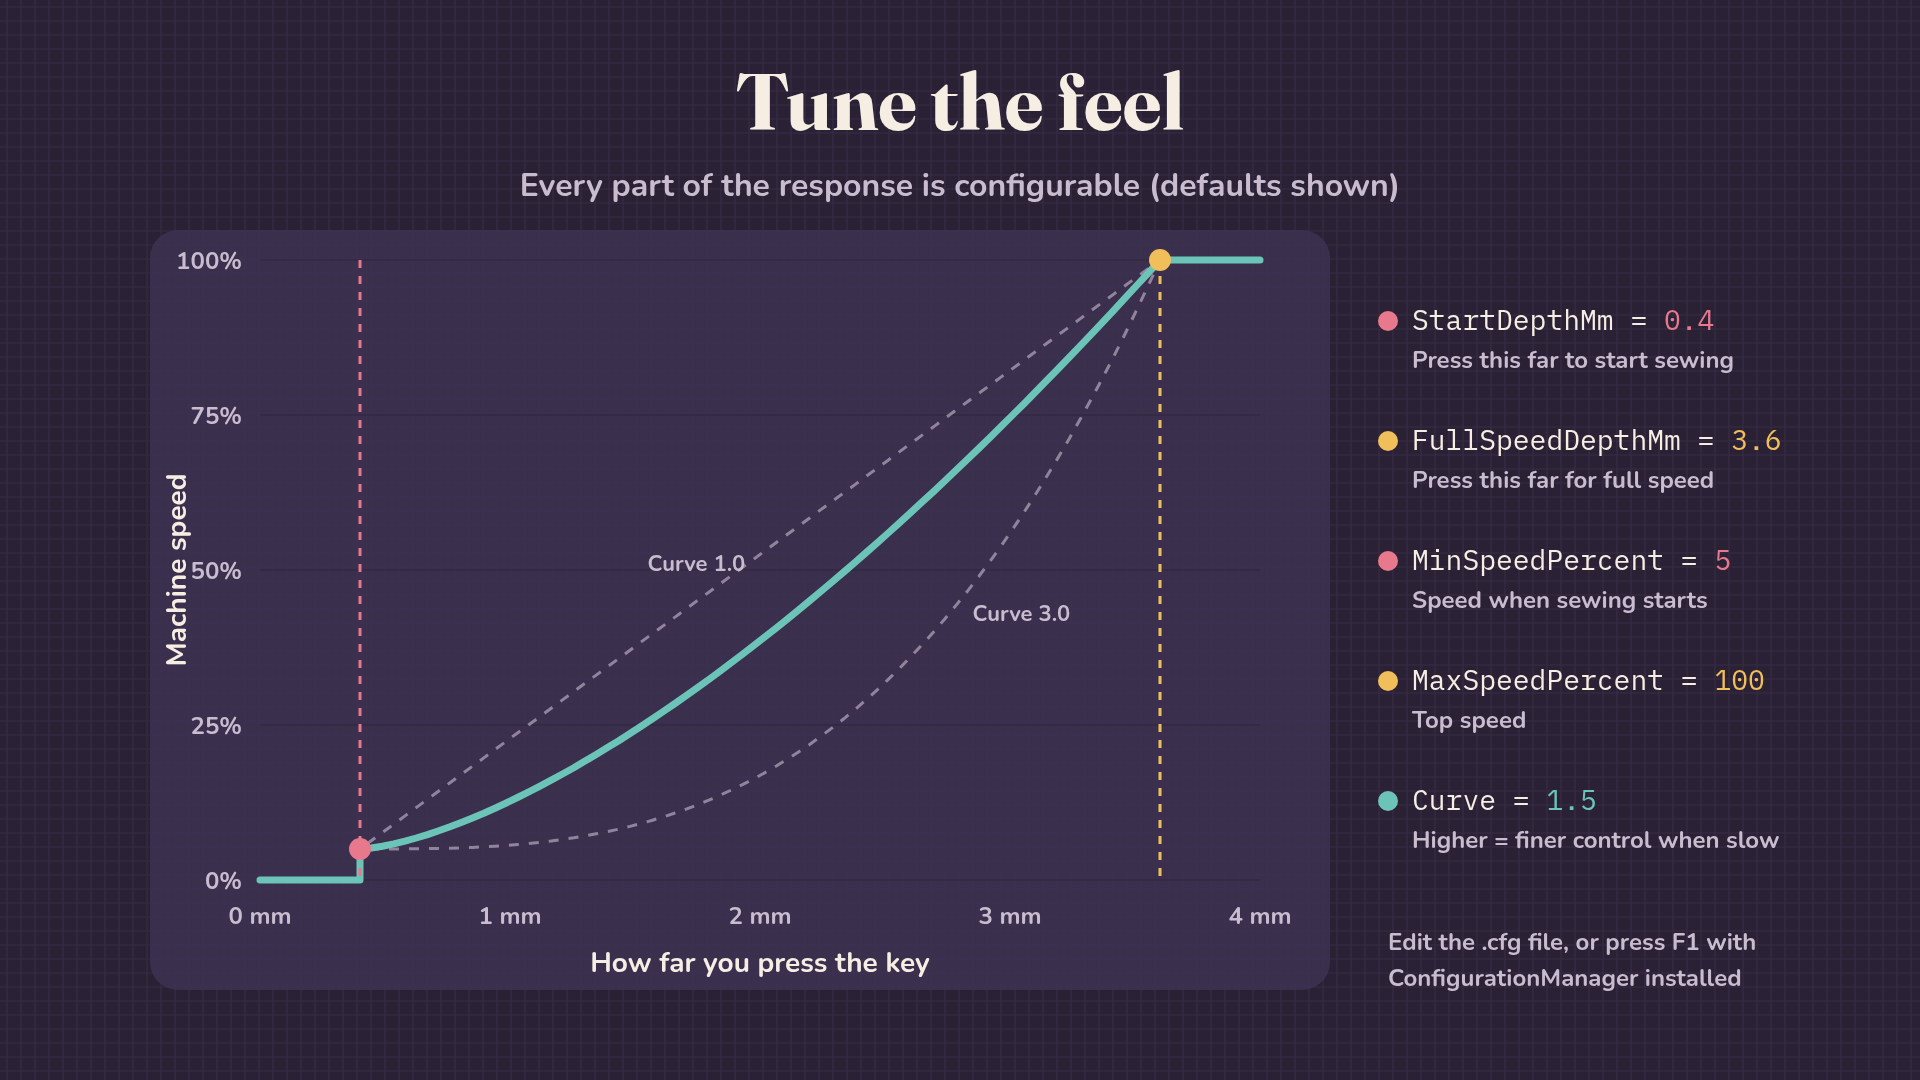
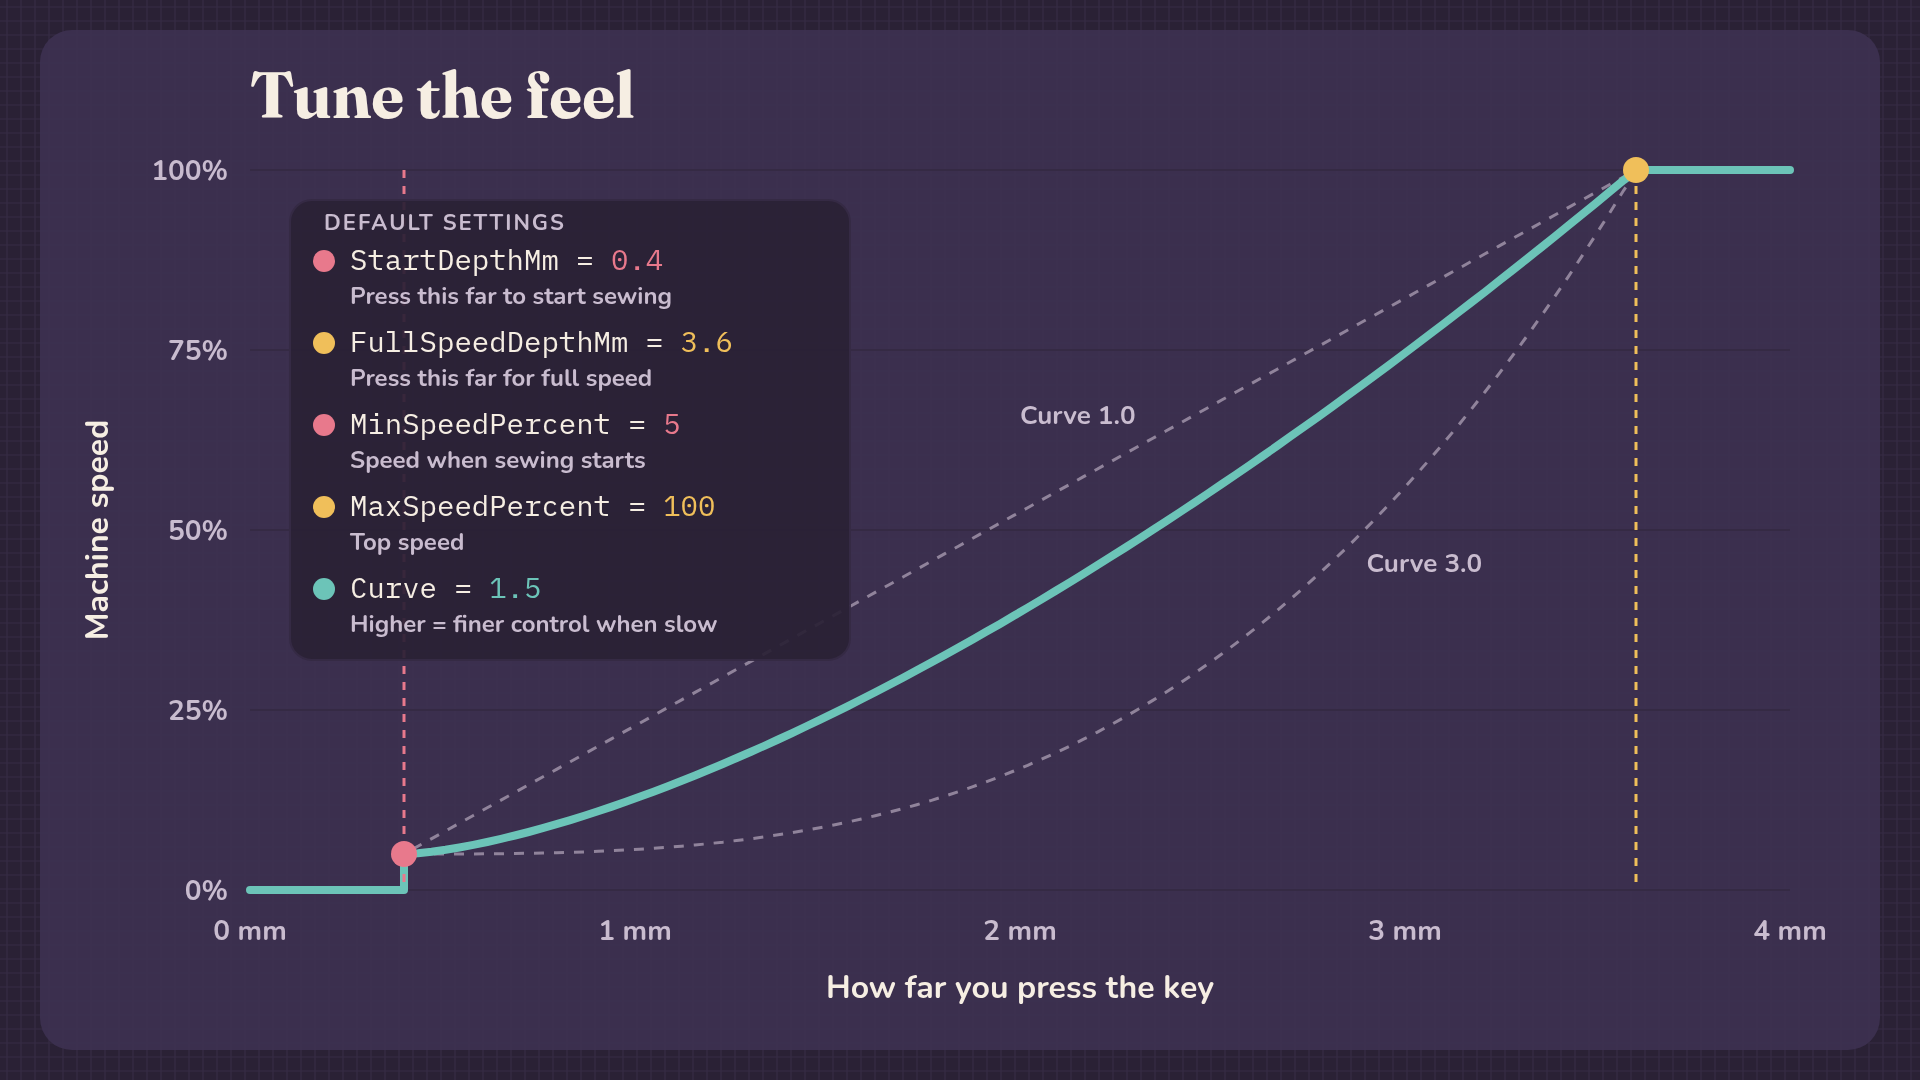
Simplify the foot-pedal image and make the curve image all graph

diff --git a/docs/media/make_media.py b/docs/media/make_media.py
@@ -104,26 +104,23 @@ def pedal():
         gauge_w = 380
         dash = (6 + pct * 0.25, max(26 - pct * 0.22, 4))
         panels.append(f"""
-  <rect x="{cx - 270}" y="300" width="540" height="620" rx="28" fill="{CARD}" opacity="0.92"/>
-  <text x="{cx}" y="380" text-anchor="middle" class="title" style="font-size:46px">{name}</text>
-  {keycap(cx - 160, 440, 320, depth_px)}
-  <text x="{cx}" y="650" text-anchor="middle" class="mono" style="font-size:30px">{mm:.1f} mm</text>
-  <rect x="{cx - gauge_w/2}" y="700" width="{gauge_w}" height="26" rx="13" fill="{BG}"/>
-  <rect x="{cx - gauge_w/2}" y="700" width="{gauge_w * pct / 100:.1f}" height="26" rx="13" fill="{TEAL}"/>
-  <text x="{cx}" y="780" text-anchor="middle" class="body" style="font-size:34px">{pct:.0f}% speed</text>
-  {stitches(cx - 200, 850, cx + 200, 850, dash=dash, width=6)}""")
+  <rect x="{cx - 270}" y="290" width="540" height="660" rx="28" fill="{CARD}" opacity="0.92"/>
+  <text x="{cx}" y="380" text-anchor="middle" class="title" style="font-size:50px">{name}</text>
+  {keycap(cx - 160, 450, 320, depth_px)}
+  <rect x="{cx - gauge_w/2}" y="680" width="{gauge_w}" height="28" rx="14" fill="{BG}"/>
+  <rect x="{cx - gauge_w/2}" y="680" width="{gauge_w * pct / 100:.1f}" height="28" rx="14" fill="{TEAL}"/>
+  <text x="{cx}" y="770" text-anchor="middle" class="body" style="font-size:38px">{pct:.0f}% speed</text>
+  {stitches(cx - 200, 860, cx + 200, 860, dash=dash, width=6)}""")
     body = f"""
-  <text x="960" y="150" text-anchor="middle" class="title" style="font-size:80px">Your keyboard is the foot pedal</text>
-  <text x="960" y="220" text-anchor="middle" class="sub" style="font-size:34px">The sewing machine's speed follows how far you press Space</text>
+  <text x="960" y="180" text-anchor="middle" class="title" style="font-size:86px">Your keyboard is the foot pedal</text>
   {''.join(panels)}
-  <text x="960" y="1010" text-anchor="middle" class="sub" style="font-size:26px">Let go and the machine stops. Right-click sewing and the speed slider still work as normal.</text>
 """
     return svg(w, h, body)
 
 
 def curve():
     w, h = 1920, 1080
-    gx, gy, gw, gh = 260, 260, 1000, 620  # plot area
+    gx, gy, gw, gh = 250, 170, 1540, 720  # plot area
 
     def px(mm):
         return gx + mm / TRAVEL_MM * gw
@@ -133,7 +130,7 @@ def curve():
 
     def path(c):
         pts = [f"M{px(0):.1f} {py(0):.1f}", f"L{px(START_MM):.1f} {py(0):.1f}"]
-        steps = 80
+        steps = 100
         for k in range(steps + 1):
             mm = START_MM + (TRAVEL_MM - START_MM) * k / steps
             pts.append(f"L{px(mm):.1f} {py(speed(mm, c)):.1f}")
@@ -141,41 +138,43 @@ def curve():
 
     grid = "".join(
         f'<line x1="{gx}" y1="{py(p)}" x2="{gx + gw}" y2="{py(p)}" stroke="{BG2}" stroke-width="2"/>'
-        f'<text x="{gx - 18}" y="{py(p) + 9}" text-anchor="end" class="sub" style="font-size:24px">{p}%</text>'
+        f'<text x="{gx - 22}" y="{py(p) + 10}" text-anchor="end" class="sub" style="font-size:28px">{p}%</text>'
         for p in (0, 25, 50, 75, 100))
     xticks = "".join(
-        f'<text x="{px(m)}" y="{gy + gh + 44}" text-anchor="middle" class="sub" style="font-size:24px">{m} mm</text>'
+        f'<text x="{px(m)}" y="{gy + gh + 50}" text-anchor="middle" class="sub" style="font-size:28px">{m} mm</text>'
         for m in (0, 1, 2, 3, 4))
 
-    def setting(y, key, value, desc, color):
+    lx, ly = gx + 40, gy + 30  # legend, in the empty upper-left of the plot
+
+    def setting(row, key, value, desc, color):
+        y = ly + 70 + row * 82
         return f"""
-  <circle cx="1388" cy="{y - 9}" r="10" fill="{color}"/>
-  <text x="1412" y="{y}" class="mono" style="font-size:28px">{key} = <tspan style="fill:{color}">{value}</tspan></text>
-  <text x="1412" y="{y + 38}" class="sub" style="font-size:24px">{desc}</text>"""
+  <circle cx="{lx + 34}" cy="{y - 9}" r="11" fill="{color}"/>
+  <text x="{lx + 60}" y="{y}" class="mono" style="font-size:29px">{key} = <tspan style="fill:{color}">{value}</tspan></text>
+  <text x="{lx + 60}" y="{y + 34}" class="sub" style="font-size:24px">{desc}</text>"""
 
     body = f"""
-  <text x="960" y="130" text-anchor="middle" class="title" style="font-size:80px">Tune the feel</text>
-  <text x="960" y="196" text-anchor="middle" class="sub" style="font-size:32px">Every part of the response is configurable (defaults shown)</text>
-  <rect x="150" y="230" width="1180" height="760" rx="28" fill="{CARD}" opacity="0.92"/>
+  <rect x="40" y="30" width="1840" height="1020" rx="32" fill="{CARD}" opacity="0.92"/>
+  <text x="{gx}" y="118" class="title" style="font-size:64px">Tune the feel</text>
   {grid}{xticks}
-  <text x="{gx + gw/2}" y="{gy + gh + 92}" text-anchor="middle" class="body" style="font-size:28px">How far you press the key</text>
-  <text transform="translate(186 {gy + gh/2}) rotate(-90)" text-anchor="middle" class="body" style="font-size:28px">Machine speed</text>
+  <text x="{gx + gw/2}" y="{gy + gh + 108}" text-anchor="middle" class="body" style="font-size:32px">How far you press the key</text>
+  <text transform="translate(108 {gy + gh/2}) rotate(-90)" text-anchor="middle" class="body" style="font-size:32px">Machine speed</text>
   <path d="{path(1.0)}" fill="none" stroke="{MUTED}" stroke-width="3" stroke-dasharray="10 10" opacity="0.6"/>
   <path d="{path(3.0)}" fill="none" stroke="{MUTED}" stroke-width="3" stroke-dasharray="10 10" opacity="0.6"/>
-  <text x="{px(1.55)}" y="{py(speed(1.75, 1.0)) - 30}" class="sub" style="font-size:22px">Curve 1.0</text>
-  <text x="{px(2.85)}" y="{py(speed(2.85, 3.0)) + 36}" class="sub" style="font-size:22px">Curve 3.0</text>
-  <path d="{path(CURVE)}" fill="none" stroke="{TEAL}" stroke-width="7" stroke-linejoin="round" stroke-linecap="round"/>
+  <text x="{px(2.3)}" y="{py(speed(2.3, 1.0)) - 24}" text-anchor="end" class="sub" style="font-size:26px">Curve 1.0</text>
+  <text x="{px(2.9)}" y="{py(speed(2.9, 3.0)) + 44}" class="sub" style="font-size:26px">Curve 3.0</text>
+  <path d="{path(CURVE)}" fill="none" stroke="{TEAL}" stroke-width="8" stroke-linejoin="round" stroke-linecap="round"/>
   <line x1="{px(START_MM)}" y1="{gy}" x2="{px(START_MM)}" y2="{gy + gh}" stroke="{ROSE}" stroke-width="3" stroke-dasharray="8 8"/>
   <line x1="{px(FULL_MM)}" y1="{gy}" x2="{px(FULL_MM)}" y2="{gy + gh}" stroke="{MUSTARD}" stroke-width="3" stroke-dasharray="8 8"/>
-  <circle cx="{px(START_MM)}" cy="{py(MIN_PCT)}" r="11" fill="{ROSE}"/>
-  <circle cx="{px(FULL_MM)}" cy="{py(MAX_PCT)}" r="11" fill="{MUSTARD}"/>
-  {setting(330, "StartDepthMm", START_MM, "Press this far to start sewing", ROSE)}
-  {setting(450, "FullSpeedDepthMm", FULL_MM, "Press this far for full speed", MUSTARD)}
-  {setting(570, "MinSpeedPercent", MIN_PCT, "Speed when sewing starts", ROSE)}
-  {setting(690, "MaxSpeedPercent", MAX_PCT, "Top speed", MUSTARD)}
-  {setting(810, "Curve", CURVE, "Higher = finer control when slow", TEAL)}
-  <text x="1388" y="950" class="sub" style="font-size:24px">Edit the .cfg file, or press F1 with</text>
-  <text x="1388" y="986" class="sub" style="font-size:24px">ConfigurationManager installed</text>
+  <circle cx="{px(START_MM)}" cy="{py(MIN_PCT)}" r="13" fill="{ROSE}"/>
+  <circle cx="{px(FULL_MM)}" cy="{py(MAX_PCT)}" r="13" fill="{MUSTARD}"/>
+  <rect x="{lx}" y="{ly}" width="560" height="460" rx="22" fill="{BG}" opacity="0.92" stroke="{BG2}" stroke-width="2"/>
+  <text x="{lx + 34}" y="{ly + 2 + 28}" class="sub" style="font-size:22px;letter-spacing:2px">DEFAULT SETTINGS</text>
+  {setting(0, "StartDepthMm", START_MM, "Press this far to start sewing", ROSE)}
+  {setting(1, "FullSpeedDepthMm", FULL_MM, "Press this far for full speed", MUSTARD)}
+  {setting(2, "MinSpeedPercent", MIN_PCT, "Speed when sewing starts", ROSE)}
+  {setting(3, "MaxSpeedPercent", MAX_PCT, "Top speed", MUSTARD)}
+  {setting(4, "Curve", CURVE, "Higher = finer control when slow", TEAL)}
 """
     return svg(w, h, body)
 
